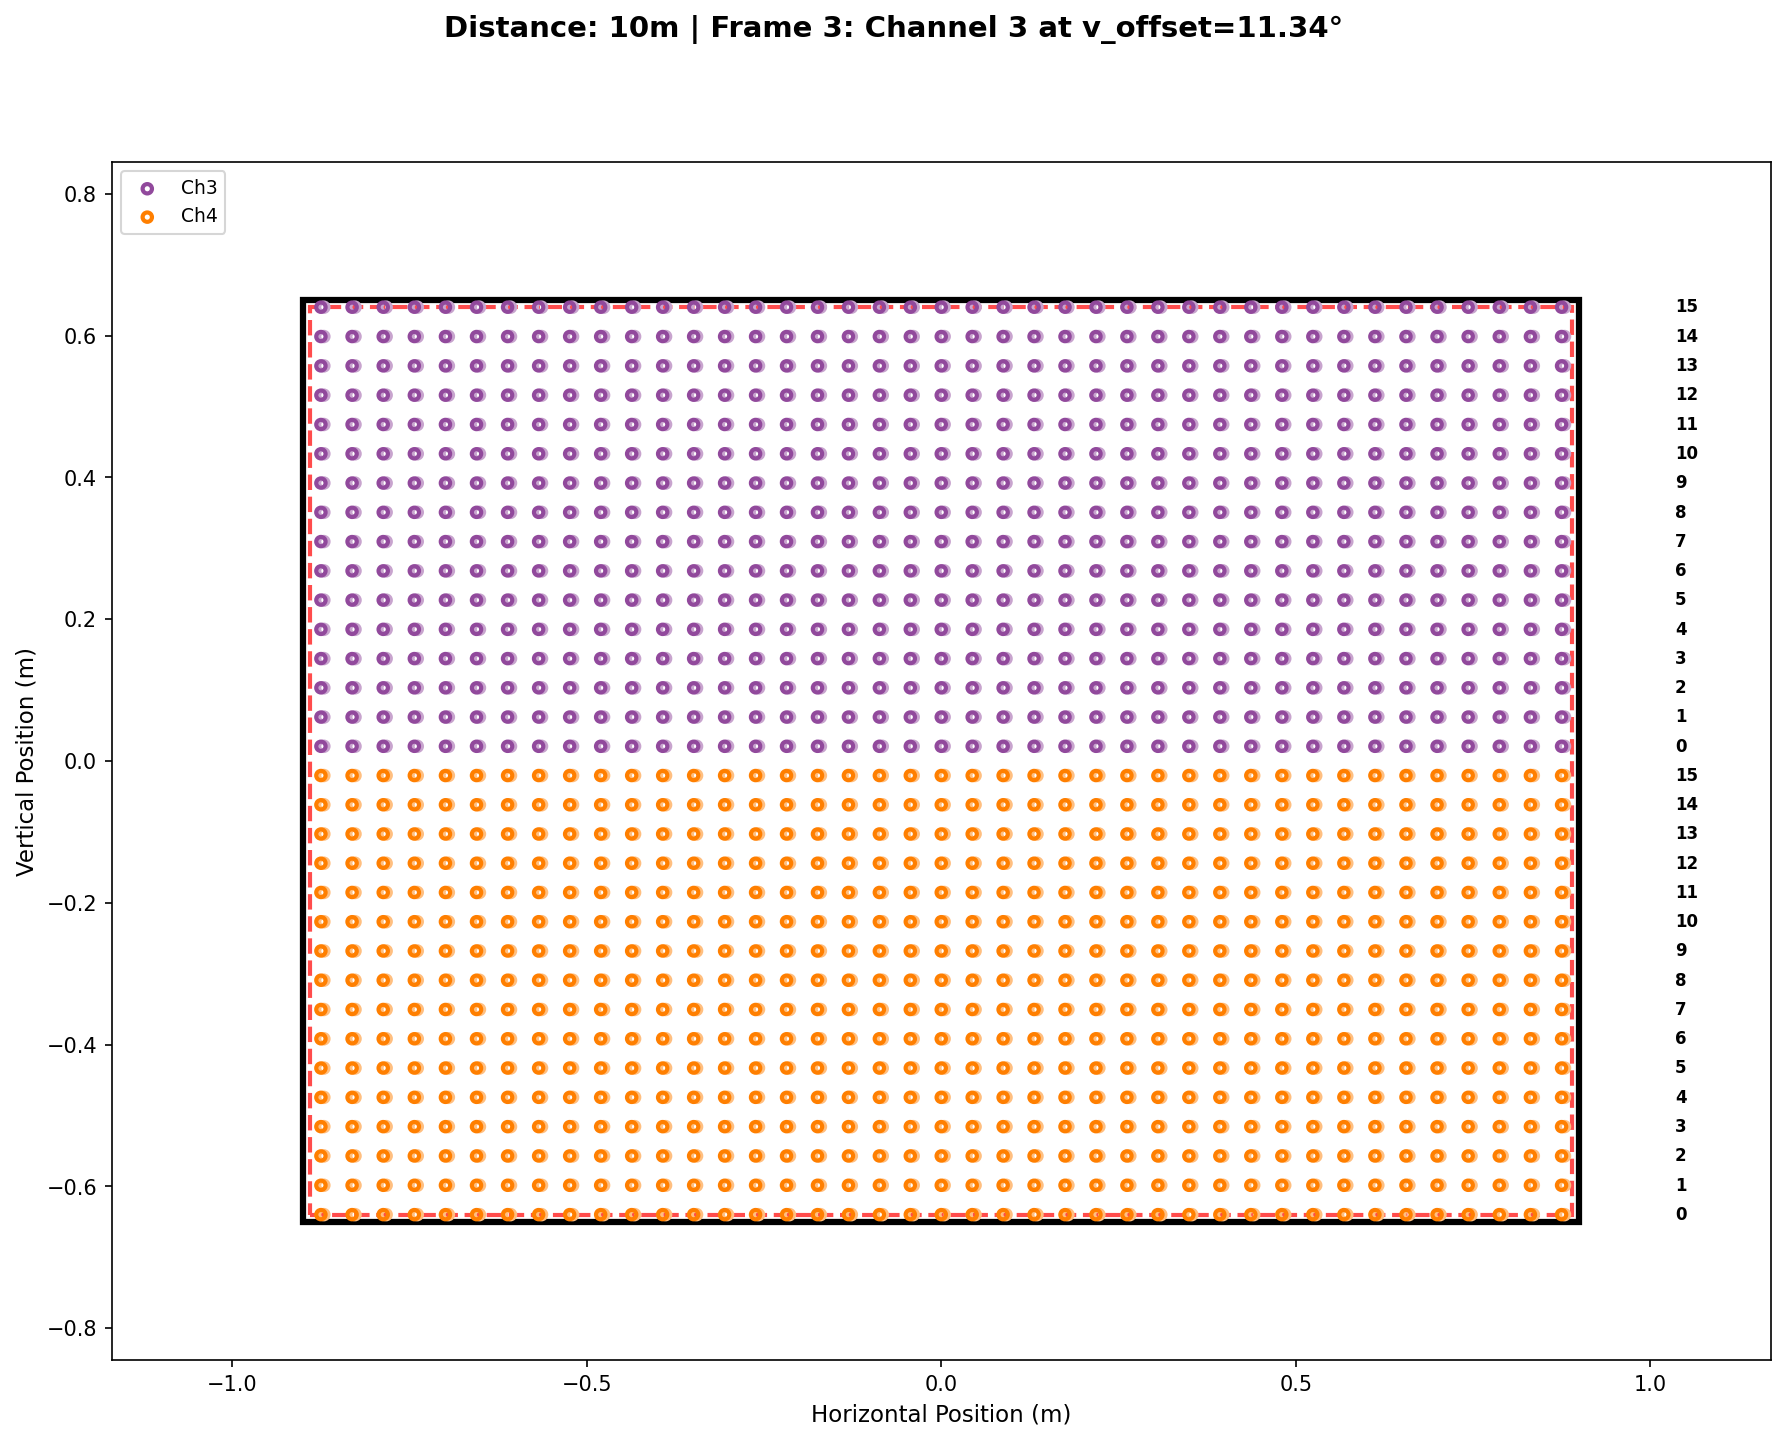
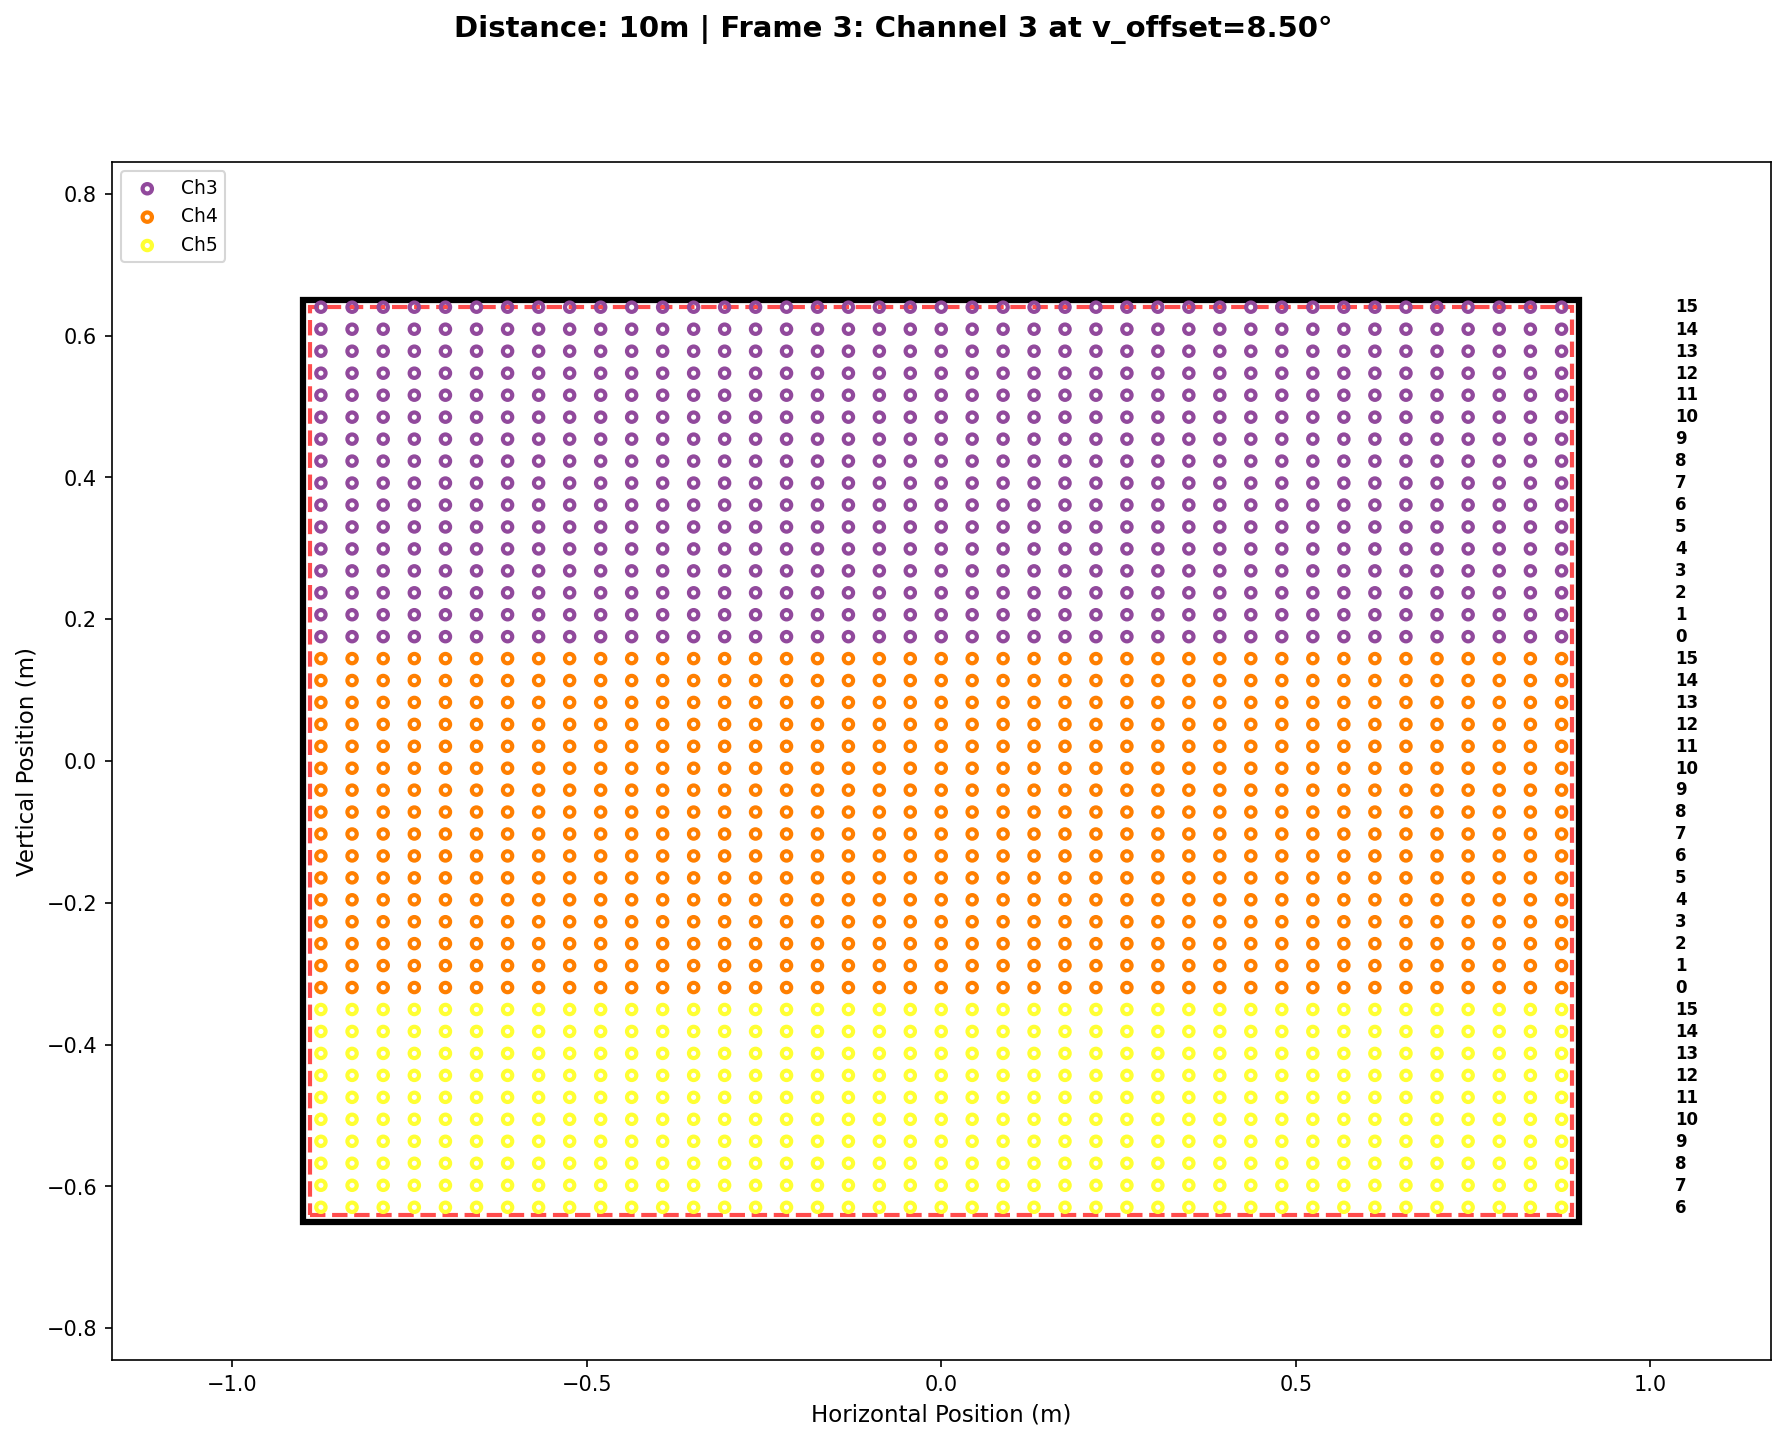
think it is pretty much working now.

diff --git a/offset_gimbal_program/new_point_counter.py b/offset_gimbal_program/new_point_counter.py
@@ -25,7 +25,7 @@ class Test_Setup:
         self.num_azimuth_beams = num_azimuth_beams
         self.num_elevation_beams = num_elevation_beams
         self.azimuth_res_rad = np.radians(45) / (num_azimuth_beams - 1)
-        self.elevation_res_rad = np.radians(30) / (num_elevation_beams - 1)
+        self.elevation_res_rad = np.radians(22.5) / (num_elevation_beams - 1)
         self.samp_per_channel = samp_per_channel
         self.buffer_m = buffer_m
         self.spot_diameter_m = spot_diameter_m
@@ -33,7 +33,7 @@ class Test_Setup:
         
         # Sensor FOV parameters
         self.hfov_rad = np.radians(45.0)  # 45° horizontal FOV
-        self.vfov_rad = np.radians(30.0)  # 30° vertical FOV
+        self.vfov_rad = np.radians(22.5)  # 22.5° vertical FOV
         self.theta0 = 0.0  # Uncalibrated center elevation angle (radians)
 
         # Gimbal calibration offsets (will be set manually for each distance test)
@@ -123,133 +123,51 @@ class Test_Setup:
         
         return n_azimuth, n_elevation
     
-    def calculate_microsteps_needed(self, v_offset_rel=0.0, samples_per_elevation=19):
+    def microstep_case1(self):
         """
-        Calculate how many horizontal microsteps are needed to achieve target samples per elevation.
-        
-        Parameters
-        ----------
-        v_offset_rel : float
-            Vertical offset (radians) relative to calibration
-        samples_per_elevation : int
-            Desired number of samples per elevation beam (default: 19)
-        
-        Returns
-        -------
-        n_microsteps : int
-            Number of microstep positions needed (including initial position)
-        
-        Notes
-        -----
-        Accounts for beams entering/exiting as we microstep by checking beam count
-        at multiple positions and summing actual samples collected.
-        Microsteps are always 1/32 of azimuth_res_rad apart.
+          Case 1: n_vertical >= 16 (full channel visible)
+        Should microstep until samp_per_channel is reached
+
         """
-        microstep_size = self.azimuth_res_rad / 32.0
-        
-        # Start with initial estimate
-        n_azimuth_initial, _ = self.count_beams_on_target(0.0, v_offset_rel)
-        
-        if n_azimuth_initial <= 0:
-            return 1  # At least one position even if no beams hit
-        
-        # Iteratively check if we have enough samples
-        for n_microsteps in range(1, 50):  # Reasonable upper limit
-            total_samples = 0
-            for i in range(n_microsteps):
-                h_offset = i * microstep_size
-                n_azimuth, _ = self.count_beams_on_target(h_offset, v_offset_rel)
-                total_samples += n_azimuth
-            
-            if total_samples >= samples_per_elevation:
-                return n_microsteps
-        
-        # Fallback: use initial estimate if loop doesn't converge
-        return int(np.ceil(samples_per_elevation / n_azimuth_initial))
-    
-    def generate_microstep_positions(self, n_microsteps, v_offset_rel):
+
+    def run_test(self):
         """
-        Generate list of (h_offset, v_offset) positions for microstepping.
-        
-        Parameters
-        ----------
-        n_microsteps : int
-            Number of microstep positions to generate
-        v_offset_rel : float
-            Vertical offset (radians) relative to calibration
-        
-        Returns
-        -------
-        positions : list of tuples
-            List of (h_offset_rad, v_offset_rad) positions
-        
-        Notes
-        -----
-        Microsteps are always 1/32 of azimuth_res_rad apart horizontally.
-        First position is always at h_offset = 0.0.
+        Run the test procedure following the pseudocode.
+        For now: simplified microstepping (one step to the right).
+        Returns list of gimbal positions visited.
         """
-        microstep_size = self.azimuth_res_rad / 32.0
-        positions = []
+        # Store initial calibration
+        initial_h_offset = self.gimbal_h_offset_rad
+        initial_v_offset = self.gimbal_v_offset_rad
         
-        for i in range(n_microsteps):
-            h_offset = i * microstep_size
-            positions.append((h_offset, v_offset_rel))
-        
-        return positions
-    
-    def run_test(self, samples_per_elevation=19):
-        """
-        Run the test procedure with automatic microstepping.
-        
-        Parameters
-        ----------
-        samples_per_elevation : int
-            Target number of samples per elevation beam (default: 19)
-        
-        Returns
-        -------
-        positions : list of tuples
-            List of (h_offset_rad, v_offset_rad) gimbal positions visited
-        """
-        # Count beams at calibration
-        n_azimuth, n_vertical = self.count_beams_on_target(0, 0)
-        print(f"Starting test at calibration:")
-        print(f"  Horizontal beams: {n_azimuth}")
-        print(f"  Vertical beams: {n_vertical}")
-        
-        # Calculate microsteps needed (will check beam count at each position)
-        n_microsteps = self.calculate_microsteps_needed(0.0, samples_per_elevation)
-        
-        # Calculate actual samples that will be collected
-        microstep_size = self.azimuth_res_rad / 32.0
-        total_samples = sum([self.count_beams_on_target(i * microstep_size, 0.0)[0] for i in range(n_microsteps)])
-        
-        print(f"  Microsteps per position: {n_microsteps}")
-        print(f"  Samples per elevation: {total_samples}\n")
+        # Count vertical beams at calibration
+        _, n_vertical = self.count_beams_on_target(0, 0)
+        print(f"Starting test at calibration: {n_vertical} vertical beams visible")
         
         # Track all positions visited
         positions = []
+        # Current relative offset from calibration
         current_v_rel = 0.0  # Vertical offset relative to calibration
         
         if n_vertical >= 16:
             print("Case: n_vertical >= 16 (full channel visible)")
+            
+            # Calculate how many microsteps needed so one elevation gets 19 samples
+            # Count azimuth beams hitting at calibration position
+            n_azimuth, _ = self.count_beams_on_target(0, 0)
+            # Need 19 samples per elevation, each position gives n_azimuth samples per elevation
+            microsteps_needed = max(1, int(np.ceil(self.samp_per_channel / 16 / n_azimuth)))
+            print(f"Azimuth beams per position: {n_azimuth}, Microsteps needed: {microsteps_needed} (to get {self.samp_per_channel / 16:.0f} samples per elevation)")
+            
             # Full channel visible at once
             for channel in range(8):
                 print(f"\nChannel {channel}:")
                 
-                # Recalculate microsteps for this specific v_offset (beam count may vary)
-                n_microsteps_ch = self.calculate_microsteps_needed(current_v_rel, samples_per_elevation)
-                
-                # Generate microstep positions for this channel
-                channel_positions = self.generate_microstep_positions(n_microsteps_ch, current_v_rel)
-                positions.extend(channel_positions)
-                
-                # Calculate actual samples for this channel
-                total_samples_ch = sum([self.count_beams_on_target(i * microstep_size, current_v_rel)[0] 
-                                       for i in range(n_microsteps_ch)])
-                
-                print(f"  Added {len(channel_positions)} positions at v_offset={np.degrees(current_v_rel):.3f}°")
-                print(f"  Total samples for this channel: {total_samples_ch}")
+                # Multiple microsteps at this channel position
+                for step in range(microsteps_needed):
+                    h_offset = step * self.azimuth_res_rad / 20.0
+                    print(f"  Position {step}: v_offset={np.degrees(current_v_rel):.3f}°, h_offset={np.degrees(h_offset):.3f}°")
+                    positions.append((h_offset, current_v_rel))
                 
                 # Macrostep UP by 16 elevations (except after last channel)
                 if channel < 7:
@@ -261,47 +179,51 @@ class Test_Setup:
             print(f"Case: n_vertical < 16 (partial channel visible)")
             # Partial channel visible - need subdivisions
             subdivisions_needed = int(np.ceil(16 / n_vertical))
-            print(f"Subdivisions per channel: {subdivisions_needed}")
+            # Calculate microsteps needed: 19 samples per elevation line
+            # Count azimuth beams hitting at calibration
+            n_azimuth, _ = self.count_beams_on_target(0, 0)
+            samples_per_elevation = self.samp_per_channel / 16  # 300/16 = 18.75 ≈ 19
+            microsteps_per_subdivision = max(1, int(np.ceil(samples_per_elevation / n_azimuth)))
+            print(f"Azimuth beams per position: {n_azimuth}, Microsteps per subdivision: {microsteps_per_subdivision} (to get {samples_per_elevation:.0f} samples per elevation)")
             
             for channel in range(8):
                 print(f"\nChannel {channel}:")
                 
                 for sub in range(subdivisions_needed):
-                    # Calculate elevations visible at this subdivision
+                    # Apply small vertical offset between subdivisions within channel
+                    # This prevents same elevations from landing on same spots
+                    v_offset_adjustment = sub * self.elevation_res_rad / 64
+                    current_position_v = current_v_rel + v_offset_adjustment
+                    
+                    # Count how many elevations are ACTUALLY visible at this position
+                    elevations_visible, _ = self.count_beams_on_target(0, current_position_v)
+                    
+                    print(f"  Subdivision {sub}: {elevations_visible} elevations visible at v_offset={np.degrees(current_position_v):.3f}°")
+                    
+                    # Multiple microsteps to reach sample target
+                    for step in range(microsteps_per_subdivision):
+                        h_offset = step * self.azimuth_res_rad / 20.0
+                        print(f"    Position {step}: v_offset={np.degrees(current_position_v):.3f}°, h_offset={np.degrees(h_offset):.3f}°")
+                        positions.append((h_offset, current_position_v))
+                    
+                    # Macrostep UP - overlap by 1 elevation to avoid losing samples at edges
                     if sub < subdivisions_needed - 1:
-                        elevations_visible = n_vertical
-                    else:
-                        elevations_visible = 16 - (n_vertical * (subdivisions_needed - 1))
-                    
-                    print(f"  Subdivision {sub}: {elevations_visible} elevations visible")
-                    
-                    # Recalculate microsteps for this specific position
-                    n_microsteps_sub = self.calculate_microsteps_needed(current_v_rel, samples_per_elevation)
-                    
-                    # Generate microstep positions for this subdivision
-                    subdivision_positions = self.generate_microstep_positions(n_microsteps_sub, current_v_rel)
-                    positions.extend(subdivision_positions)
-                    
-                    # Calculate actual samples for this subdivision
-                    total_samples_sub = sum([self.count_beams_on_target(i * microstep_size, current_v_rel)[0] 
-                                            for i in range(n_microsteps_sub)])
-                    
-                    print(f"    Added {len(subdivision_positions)} positions at v_offset={np.degrees(current_v_rel):.3f}°")
-                    print(f"    Total samples for this subdivision: {total_samples_sub}")
-                    
-                    # Macrostep UP
-                    if sub < subdivisions_needed - 1:
-                        # Not last subdivision - step by n_vertical
-                        macrostep_size = n_vertical * self.elevation_res_rad
+                        # Within channel: step by (elevations_visible - 1) to create overlap
+                        # But if only 1 elevation, can't create overlap - just step by 1
+                        overlap_step = max(1, elevations_visible - 1)
+                        macrostep_size = overlap_step * self.elevation_res_rad
                         current_v_rel += macrostep_size
-                        print(f"    Macrostep UP by {n_vertical} elevations (+{np.degrees(macrostep_size):.3f}°)")
+                        if overlap_step < elevations_visible:
+                            print(f"    Macrostep UP by {overlap_step} elevations (+{np.degrees(macrostep_size):.3f}°) [1 elevation overlap]")
+                        else:
+                            print(f"    Macrostep UP by {overlap_step} elevations (+{np.degrees(macrostep_size):.3f}°)")
                     elif channel < 7:
-                        # Last subdivision but not last channel - step by remaining elevations
+                        # Between channels: step by full elevations_visible to align next channel
                         macrostep_size = elevations_visible * self.elevation_res_rad
                         current_v_rel += macrostep_size
-                        print(f"    Macrostep UP by {elevations_visible} elevations (+{np.degrees(macrostep_size):.3f}°)")
+                        print(f"    Macrostep UP by {elevations_visible} elevations to next channel (+{np.degrees(macrostep_size):.3f}°)")
         
-        print(f"\n✓ Test complete! Visited {len(positions)} positions")
+        print(f"\nTest complete! Visited {len(positions)} positions")
         return positions
 
     # Test procedure

diff --git a/offset_gimbal_program/test_run_procedure.py b/offset_gimbal_program/test_run_procedure.py
@@ -13,7 +13,7 @@ def lighten_color(color, amount=0.5):
     return tuple(rgb[i] + (1 - rgb[i]) * amount for i in range(3))
 
 # Test at multiple distances
-test_distances = [5, 10, 15, 20, 30]
+test_distances = [5, 10, 50, 70, 100, 150]
 
 # Channel colors (8 distinct colors)
 channel_colors = ['#e41a1c', '#377eb8', '#4daf4a', "#91499c", '#ff7f00', '#ffff33', '#a65628', "#af5083"]
@@ -32,7 +32,7 @@ for distance_m in test_distances:
         sensor_width_offset_m=0.0,
         num_azimuth_beams=181,
         num_elevation_beams=128,
-        samp_per_channel=300,
+        samp_per_channel=400,
         buffer_m=0.01,
         spot_diameter_m=0.0135  # 1.35cm diameter
     )
@@ -151,10 +151,9 @@ for distance_m in test_distances:
                               zorder=2,
                               label=label)
         
-        # Plot stepped position at this v_offset
+        # Plot stepped positions at this v_offset
         stepped_at_v = [h for h, v in stepped_positions if v == v_offset]
-        if stepped_at_v:
-            h_offset = stepped_at_v[0]
+        for h_offset in stepped_at_v:
             
             phis = setup.azimuth_angles(h_offset)
             thetas = setup.elevation_angles(setup.gimbal_v_offset_rad + v_offset)
